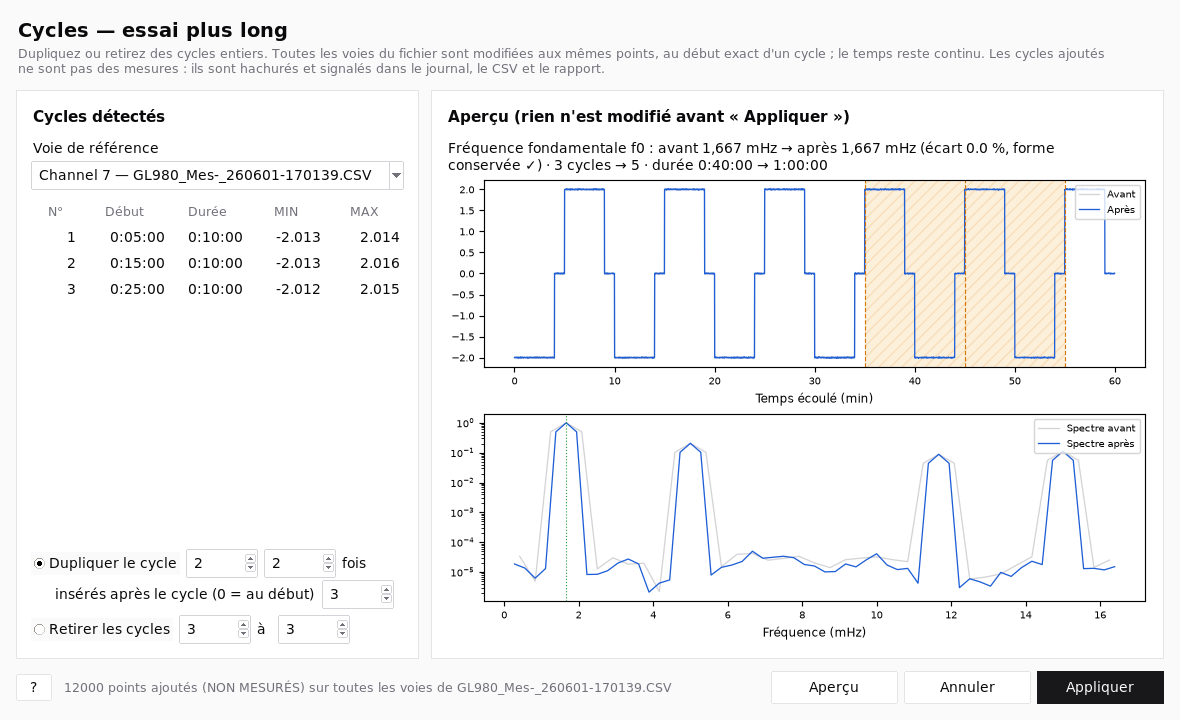
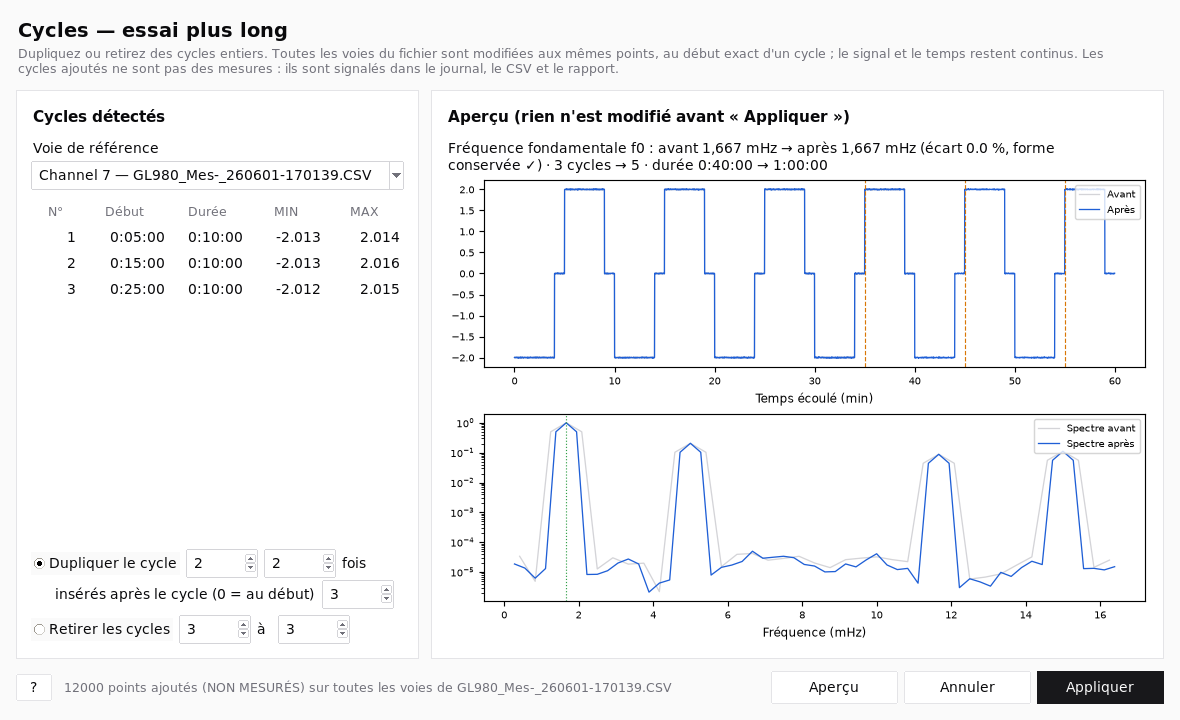
Cycles ajoutés sans hachure (v0.19.1)
Retour du client sur l'issue #12 : « ne mets pas d'hachure », « le signal doit rester
continu ». Les cycles ajoutés ne sont plus hachurés (graphique, légende, image, rapport,
aperçu) ; signal et temps continus comme avant. La traçabilité reste dans le journal, la
colonne « Cycle ajouté (non mesuré) » du CSV et la synthèse du rapport PDF.

Refs #12

Changed region(s): [[0.7322, 0.2444, 0.9153, 0.5194], [0.0305, 0.0917, 0.5186, 0.1222], [0.7322, 0.0611, 0.9458, 0.0917]]

diff --git a/analyser_data/i18n_en.py b/analyser_data/i18n_en.py
@@ -414,7 +414,6 @@ EN = {
     # Cycles (issue #12)
     'Cycle ajouté (non mesuré)': 'Added cycle (not measured)',
     'Cycle {} dupliqué {} fois dans {} après le cycle {} (voie de référence {}) : {} points AJOUTÉS, NON MESURÉS': 'Cycle {} duplicated {} times in {} after cycle {} (reference channel {}): {} points ADDED, NOT MEASURED',
-    'Cycles ajoutés (non mesurés)': 'Added cycles (not measured)',
     'Cycles {} à {} retirés de {} (voie de référence {}) : {} points, temps continu': 'Cycles {} to {} removed from {} (reference channel {}): {} points, continuous time',
     'Modification de cycles annulée : {}': 'Cycle change undone: {}',
     '{} : {} points ajoutés par duplication de cycles (NON MESURÉS, {} de données)': '{}: {} points added by duplicating cycles (NOT MEASURED, {} of data)',
@@ -423,11 +422,9 @@ EN = {
     'Cycles…': 'Cycles…',
     'Annuler la modification': 'Undo the change',
     'Aucun cycle ajouté.': 'No cycle added.',
-    '{} points ajoutés (NON MESURÉS, hachurés) dans {}.': '{} points added (NOT MEASURED, hatched) in {}.',
     '{} points retirés de {}.': '{} points removed from {}.',
     'Modification des cycles de {}…': 'Changing the cycles of {}…',
     'Cycles — essai plus long': 'Cycles — longer test',
-    "Dupliquez ou retirez des cycles entiers. Toutes les voies du fichier sont modifiées aux mêmes points, au début exact d'un cycle ; le temps reste continu. Les cycles ajoutés ne sont pas des mesures : ils sont hachurés et signalés dans le journal, le CSV et le rapport.": 'Duplicate or remove whole cycles. Every channel of the file is changed at the same points, at the exact start of a cycle; time stays continuous. Added cycles are not measurements: they are hatched and flagged in the log, the CSV and the report.',
     'Cycles détectés': 'Detected cycles',
     'Voie de référence': 'Reference channel',
     'N°': 'No.',
@@ -453,4 +450,6 @@ EN = {
     '{} points ajoutés (NON MESURÉS) sur toutes les voies de {}': '{} points added (NOT MEASURED) on every channel of {}',
     '{} points retirés sur toutes les voies de {}': '{} points removed on every channel of {}',
     'Numéros de cycles invalides.': 'Invalid cycle numbers.',
+    '{} points ajoutés (NON MESURÉS) dans {}.': '{} points added (NOT MEASURED) in {}.',
+    "Dupliquez ou retirez des cycles entiers. Toutes les voies du fichier sont modifiées aux mêmes points, au début exact d'un cycle ; le signal et le temps restent continus. Les cycles ajoutés ne sont pas des mesures : ils sont signalés dans le journal, le CSV et le rapport.": 'Duplicate or remove whole cycles. Every channel of the file is changed at the same points, at the exact start of a cycle; signal and time stay continuous. Added cycles are not measurements: they are flagged in the log, the CSV and the report.',
 }

diff --git a/analyser_data/cycles_dialog.py b/analyser_data/cycles_dialog.py
@@ -3,7 +3,8 @@
 Les cycles sont détectés sur une voie de référence et numérotés. Toutes les voies du fichier
 sont modifiées aux mêmes points, au début exact d'un cycle. L'aperçu montre le signal et son
 spectre (FFT) avant / après : la fréquence fondamentale f0 doit rester la même. Les cycles
-ajoutés ne sont pas des mesures : ils sont hachurés et signalés partout.
+ajoutés ne sont pas des mesures : ils sont signalés dans le journal, le CSV et le rapport
+(pas de hachure sur le graphique, à la demande du client).
 """
 from __future__ import annotations
 
@@ -47,8 +48,8 @@ class CyclesDialog(tk.Toplevel):
         body.pack(fill=tk.BOTH, expand=True)
         ttk.Label(body, text=_("Cycles — essai plus long"), font=app.fonts.brand).pack(anchor=tk.W)
         ttk.Label(body, text=_("Dupliquez ou retirez des cycles entiers. Toutes les voies du fichier sont modifiées "
-                               "aux mêmes points, au début exact d'un cycle ; le temps reste continu. Les cycles "
-                               "ajoutés ne sont pas des mesures : ils sont hachurés et signalés dans le journal, "
+                               "aux mêmes points, au début exact d'un cycle ; le signal et le temps restent continus. "
+                               "Les cycles ajoutés ne sont pas des mesures : ils sont signalés dans le journal, "
                                "le CSV et le rapport."),
                   style="Muted.TLabel", wraplength=1100, justify=tk.LEFT).pack(anchor=tk.W, pady=(0, 12))
 
@@ -202,10 +203,6 @@ class CyclesDialog(tk.Toplevel):
         for y, color, label in ((before, C["border_strong"], _("Avant")), (after, "#1f5fd6", _("Après"))):
             stride = max(1, len(y) // PREVIEW_POINTS)
             ax.plot(np.arange(0, len(y), stride) * step_min, y[::stride], color=color, linewidth=0.9, label=label)
-        if self.kind.get() == "duplicate":
-            start = preview["junctions"][0] if preview["junctions"] else 0
-            ax.axvspan(start * step_min, (start + preview["added_points"]) * step_min, facecolor="#f59e0b",
-                       alpha=0.15, hatch="///", edgecolor="#d97706", linewidth=0)
         for j in preview["junctions"]:
             ax.axvline(j * step_min, color="#d97706", linewidth=0.8, linestyle="--")
         ax.set_xlabel(_("Temps écoulé (min)"), fontsize=8)

diff --git a/analyser_data/help.py b/analyser_data/help.py
@@ -166,9 +166,10 @@ retirant des cycles entiers.
   niveau au raccord est compensée en douceur, sans toucher au front.
 • Aperçu avant d'appliquer : signal avant / après (raccords en pointillés) et spectre
   FFT avant / après ; la fréquence fondamentale f0 doit rester la même (✓).
-• Les cycles AJOUTÉS NE SONT PAS DES MESURES : ils sont hachurés sur le graphique, notés
-  dans le journal, marqués dans le CSV (colonne « Cycle ajouté (non mesuré) » = 1) et
-  signalés dans le rapport PDF. « Annuler la modification » revient en arrière.""",
+• Le signal et le temps restent continus ; le graphique ne marque pas les cycles ajoutés.
+  Mais les cycles AJOUTÉS NE SONT PAS DES MESURES : ils sont notés dans le journal,
+  marqués dans le CSV (colonne « Cycle ajouté (non mesuré) » = 1) et signalés dans le
+  rapport PDF. « Annuler la modification » revient en arrière.""",
      "Cycles — longer test", """\
 “Cycles” card → “Cycles…”: lengthen or shorten a test by duplicating or removing whole
 cycles.
@@ -182,9 +183,10 @@ cycles.
   smoothly compensated without touching the edge.
 • Preview before applying: signal before / after (joints dotted) and FFT spectrum before
   / after; the fundamental frequency f0 must stay the same (✓).
-• ADDED cycles ARE NOT MEASUREMENTS: they are hatched on the chart, recorded in the log,
-  flagged in the CSV (“Added cycle (not measured)” column = 1) and reported in the PDF
-  report. “Undo the change” goes back."""),
+• Signal and time stay continuous; the chart does not mark the added cycles. But ADDED
+  cycles ARE NOT MEASUREMENTS: they are recorded in the log, flagged in the CSV (“Added
+  cycle (not measured)” column = 1) and reported in the PDF report. “Undo the change”
+  goes back."""),
 
     ("Base de temps", "Base de temps", """\
 Pour superposer plusieurs fichiers :

diff --git a/analyser_data/plotting.py b/analyser_data/plotting.py
@@ -253,9 +253,7 @@ class PlotManager:
         self.colors: Dict[str, str] = {}  # gid -> couleur de la courbe
         self.draw([])
 
-    def draw(self, series: Sequence[PlotSeries], title: str = "", settings: Optional[PlotSettings] = None,
-             spans: Sequence[Tuple[float, float]] = ()) -> None:
-        """``spans`` : périodes NON MESURÉES (cycles ajoutés, issue #12), hachurées."""
+    def draw(self, series: Sequence[PlotSeries], title: str = "", settings: Optional[PlotSettings] = None) -> None:
         fig = self.figure
         fig.clear()
         _auto_layout(fig)
@@ -374,14 +372,6 @@ class PlotManager:
         self.axes = axes
         self._apply_axis_settings(settings)
 
-        if spans:
-            from matplotlib.patches import Patch
-
-            for x0, x1 in spans:
-                ax.axvspan(x0, x1, facecolor="#f59e0b", alpha=0.12, hatch="///", edgecolor="#d97706",
-                           linewidth=0, zorder=0)
-            handles.append(Patch(facecolor="#f59e0b", alpha=0.25, hatch="///", edgecolor="#d97706",
-                                 label=_("Cycles ajoutés (non mesurés)")))
         self._place_legend(ax, handles, settings.legend)
         if settings.x.min is not None or settings.x.max is not None:
             self._on_xlim_changed(ax)  # points de la période choisie

diff --git a/analyser_data/app.py b/analyser_data/app.py
@@ -557,7 +557,7 @@ class AnalyserDataApp:
             self._rebuild_tree()
             self.redraw()
             self._update_cycles_label()
-            self._set_status((_("{} points ajoutés (NON MESURÉS, hachurés) dans {}.") if delta > 0
+            self._set_status((_("{} points ajoutés (NON MESURÉS) dans {}.") if delta > 0
                               else _("{} points retirés de {}.")).format(abs(delta), key[0]))
 
         self.run_in_background(_("Modification des cycles de {}…").format(key[0]),
@@ -791,8 +791,7 @@ class AnalyserDataApp:
         self._gid_key = {s.gid: key for s, key in zip([s for s in series if not s.raw], keys)}
         self.plot.time_offset_min = self.session.time_offset_min
         self.plot.percent_axis = self.session.percent_axis
-        spans = [] if self.session.percent_axis else self.session.synthetic_spans({k[0] for k in keys})
-        self.plot.draw(series, settings=self.plot_settings, spans=spans)
+        self.plot.draw(series, settings=self.plot_settings)
         self._key_color = {self._gid_key[gid]: color for gid, color in self.plot.colors.items()}
         self._refresh_checkmarks()
         self._update_empty_state()

diff --git a/tests/test_cycles.py b/tests/test_cycles.py
@@ -110,7 +110,7 @@ def test_remove_cycles_shortens_the_test():
     assert name not in s.synthetic or not s.synthetic[name].any()  # rien d'ajouté
 
 
-def test_added_cycles_are_flagged_in_csv_plot_and_report(tmp_path):
+def test_added_cycles_are_flagged_in_csv_and_report_without_hatching(tmp_path):
     import pandas as pd
     from matplotlib.figure import Figure
 
@@ -130,9 +130,9 @@ def test_added_cycles_are_flagged_in_csv_plot_and_report(tmp_path):
     assert flag.sum() == added and set(flag.unique()) == {0, 1}
 
     plot = PlotManager(Figure())
-    plot.draw(s.series([key]), spans=s.synthetic_spans())
-    assert "Cycles ajoutés (non mesurés)" in [t.get_text() for t in plot.legend.get_texts()]
+    plot.draw(s.series([key]))
+    assert [t.get_text() for t in plot.legend.get_texts()] == ["Channel 7 (A)"]  # pas de hachure (client)
     fig = _plot_figure(s, [key], None, "Rapport")
-    assert any(p.get_hatch() == "///" for p in fig.axes[0].patches)
+    assert not fig.axes[0].patches
     summary = _summary_page(s, [key], None, "Rapport")
     assert any("NON MESURÉS" in t.get_text() for t in summary.texts)

diff --git a/analyser_data/report.py b/analyser_data/report.py
@@ -185,8 +185,7 @@ def _plot_figure(session, keys, view, title, settings=None) -> Figure:
     plot.legend_pad = 2.0  # légende écartée du bord de la page A4
     plot.time_offset_min = session.time_offset_min
     plot.percent_axis = session.percent_axis
-    spans = [] if session.percent_axis else session.synthetic_spans({k[0] for k in keys})
-    plot.draw(session.series(keys), title=title, settings=settings, spans=spans)
+    plot.draw(session.series(keys), title=title, settings=settings)
     if view is not None and fig.axes:
         fig.axes[0].set_xlim(*view)
     # Mise en page automatique (comme à l'écran) : la légende reste hors des courbes (issue #6),

diff --git a/analyser_data/__init__.py b/analyser_data/__init__.py
@@ -4,4 +4,4 @@
 """
 
 APP_NAME = "Analyser DATA"  # nom affiché partout : fenêtre, en-tête, aide, journal, rapports, images
-__version__ = "0.19.0"
+__version__ = "0.19.1"

diff --git a/README.md b/README.md
@@ -65,8 +65,8 @@ python main.py
 7. Carte **Cycles** → **Cycles…** : **essai plus long** en dupliquant (ou raccourci en retirant)
    des cycles entiers, détectés et numérotés sur une voie de référence. Toutes les voies du
    fichier sont modifiées aux mêmes points, au début exact d'un cycle ; aperçu du signal et du
-   spectre FFT avant / après (même f0). Les cycles ajoutés **ne sont pas des mesures** : hachurés,
-   notés dans le journal, le CSV et le rapport. Annulable.
+   spectre FFT avant / après (même f0). Signal et temps continus. Les cycles ajoutés **ne sont
+   pas des mesures** : notés dans le journal, le CSV et le rapport. Annulable.
 
    ![Cycles](docs/captures/6-cycles.png)
 8. **Exporter ▾** :
